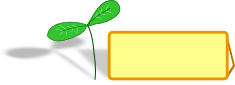
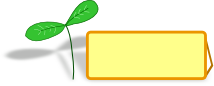
header styles

Changed region(s): [[0.1121, 0.0, 1.0, 0.9647], [0.028, 0.5647, 0.1121, 0.6118]]

diff --git a/css/main.css b/css/main.css
@@ -11,25 +11,64 @@ body {
 }
 
 #header {
-	height: 100px;
-	overflow: hidden;
+	margin-top: 40px;
+	height: 200px;
 	position: relative;
 	border-bottom: 1px solid black;
+	-moz-border-radius: 100px 0px 0px;
+	-webkit-border-radius: 100px 0px 0px 0px;
+	border-radius: 100px 0px 0px;
+	
+background: rgb(186,220,255); /* Old browsers */
+background: -moz-linear-gradient(top, rgba(186,220,255,1) 0%, rgba(240,249,255,1) 100%); /* FF3.6+ */
+background: -webkit-gradient(linear, left top, left bottom, color-stop(0%,rgba(186,220,255,1)), color-stop(100%,rgba(240,249,255,1))); /* Chrome,Safari4+ */
+background: -webkit-linear-gradient(top, rgba(186,220,255,1) 0%,rgba(240,249,255,1) 100%); /* Chrome10+,Safari5.1+ */
+background: -o-linear-gradient(top, rgba(186,220,255,1) 0%,rgba(240,249,255,1) 100%); /* Opera11.10+ */
+background: -ms-linear-gradient(top, rgba(186,220,255,1) 0%,rgba(240,249,255,1) 100%); /* IE10+ */
+filter: progid:DXImageTransform.Microsoft.gradient( startColorstr='#badcff', endColorstr='#f0f9ff',GradientType=0 ); /* IE6-9 */
+background: linear-gradient(top, rgba(186,220,255,1) 0%,rgba(240,249,255,1) 100%); /* W3C */
 }
 #header #user {
-	text-align: right;
-	margin-top: 15px;
+	position: absolute;
+	right: 0;
+	top: -20px;
+	padding: 15px;
+	box-shadow: -10px 10px 20px #84ABBA;
+	-webkit-box-shadow: -10px 10px 20px #84ABBA;
+	-moz-box-shadow: -10px 10px 20px #84ABBA;
+	border-radius: 10px;
+	-webkit-border-radius: 10px;
+	-moz-border-radius: 10px;
+	
+	
+background: rgb(224,243,250); /* Old browsers */
+background: -moz-linear-gradient(top, rgba(224,243,250,1) 0%, rgba(216,240,252,1) 50%, rgba(184,226,246,1) 51%, rgba(182,223,253,1) 100%); /* FF3.6+ */
+background: -webkit-gradient(linear, left top, left bottom, color-stop(0%,rgba(224,243,250,1)), color-stop(50%,rgba(216,240,252,1)), color-stop(51%,rgba(184,226,246,1)), color-stop(100%,rgba(182,223,253,1))); /* Chrome,Safari4+ */
+background: -webkit-linear-gradient(top, rgba(224,243,250,1) 0%,rgba(216,240,252,1) 50%,rgba(184,226,246,1) 51%,rgba(182,223,253,1) 100%); /* Chrome10+,Safari5.1+ */
+background: -o-linear-gradient(top, rgba(224,243,250,1) 0%,rgba(216,240,252,1) 50%,rgba(184,226,246,1) 51%,rgba(182,223,253,1) 100%); /* Opera11.10+ */
+background: -ms-linear-gradient(top, rgba(224,243,250,1) 0%,rgba(216,240,252,1) 50%,rgba(184,226,246,1) 51%,rgba(182,223,253,1) 100%); /* IE10+ */
+filter: progid:DXImageTransform.Microsoft.gradient( startColorstr='#e0f3fa', endColorstr='#b6dffd',GradientType=0 ); /* IE6-9 */
+background: linear-gradient(top, rgba(224,243,250,1) 0%,rgba(216,240,252,1) 50%,rgba(184,226,246,1) 51%,rgba(182,223,253,1) 100%); /* W3C */
 }
 #header h1 {
 	margin: 0;
-	padding: 0;
-	font-size: 2.2em;
+	padding: 5px;
+	font-size: 2.5em;
 	font-weight: bold;
-	text-transform: lowercase;
 	float: left;
 	position: absolute;
-	bottom: 0;
-	left: 0;
+	top: 30px;
+	left: 80px;
+	background-color: #FFFB80;
+	color: #F26500;
+	letter-spacing: 1px;
+	border-radius: 10px;
+	-webkit-border-radius: 10px;
+	-moz-border-radius: 10px;
+}
+#header h1 a {
+	text-decoration: none;
+	color: inherit;
 }
 #header ul {
 	list-style: none;
@@ -42,20 +81,31 @@ body {
 #header li {
 	display: inline-block;
 	background: url('../img/button.png');
-	width: 235px;
-	height: 85px;
+	width: 214px;
+	height: 86px;
 	margin-left: -10px;
 	position: relative;
 }
 #header li a {
-	display: inline-block;
+	display: block;
 	position: absolute;
-	top: 45px;
-	left: 140px;
+	top: 44px;
+	left: 90px;
+	right: 10px;
+	bottom: 20px;
 	font-weight: bold;
 	text-decoration: none;
 	color: #D45800;
 	font-size: 20px;
+	text-align: center;
+}
+#header #cloud {
+	background: url('../img/cloud.png');
+	width: 222px;
+	height: 222px;
+	position: absolute;
+	left: -30px;
+	top: -30px;
 }
 
 #main {

diff --git a/application/views/template.php b/application/views/template.php
@@ -10,6 +10,8 @@ $this->load->helper('url');
 <body>
 	<div id="wrap">
 		<div id="header">
+		<div id="cloud">
+		</div>
 		<h1><?php echo anchor("", "HTHS Rain Garden"); ?></h1>
 		<div id="user">
 		<?php
@@ -17,7 +19,9 @@ $this->load->helper('url');
 				echo 'Welcome, ' . $this->session->userdata('username') . ' | ' . anchor('user/logout', 'Logout');
 			} else {
 				$this->load->helper('url');
-				echo anchor('user/login', 'Login')/* . ' | ' . anchor('user/register', 'Register')*/;
+				/*echo anchor('user/login', 'Login') . ' | ' . anchor('user/register', 'Register')*/;
+				
+				$this->load->view('login_view_inline');
 			}
 		?>
 		</div>

diff --git a/application/views/login_view_inline.php b/application/views/login_view_inline.php
@@ -1,0 +1,20 @@
+<div>
+<?php
+$this->load->helper('form');
+
+echo form_open('user/login/submit');
+?>
+<div style="float: left;">
+<?php
+echo form_input('username', 'Username');
+echo '<br />';
+echo form_password('password', 'Password');
+?>
+</div>
+<div style="float: left;">
+<?php
+echo form_submit(array('name' => 'submit', 'value' => 'Login', 'style' => 'width: 45px; height: 52px;'));
+echo form_close();
+?>
+</div>
+</div>
